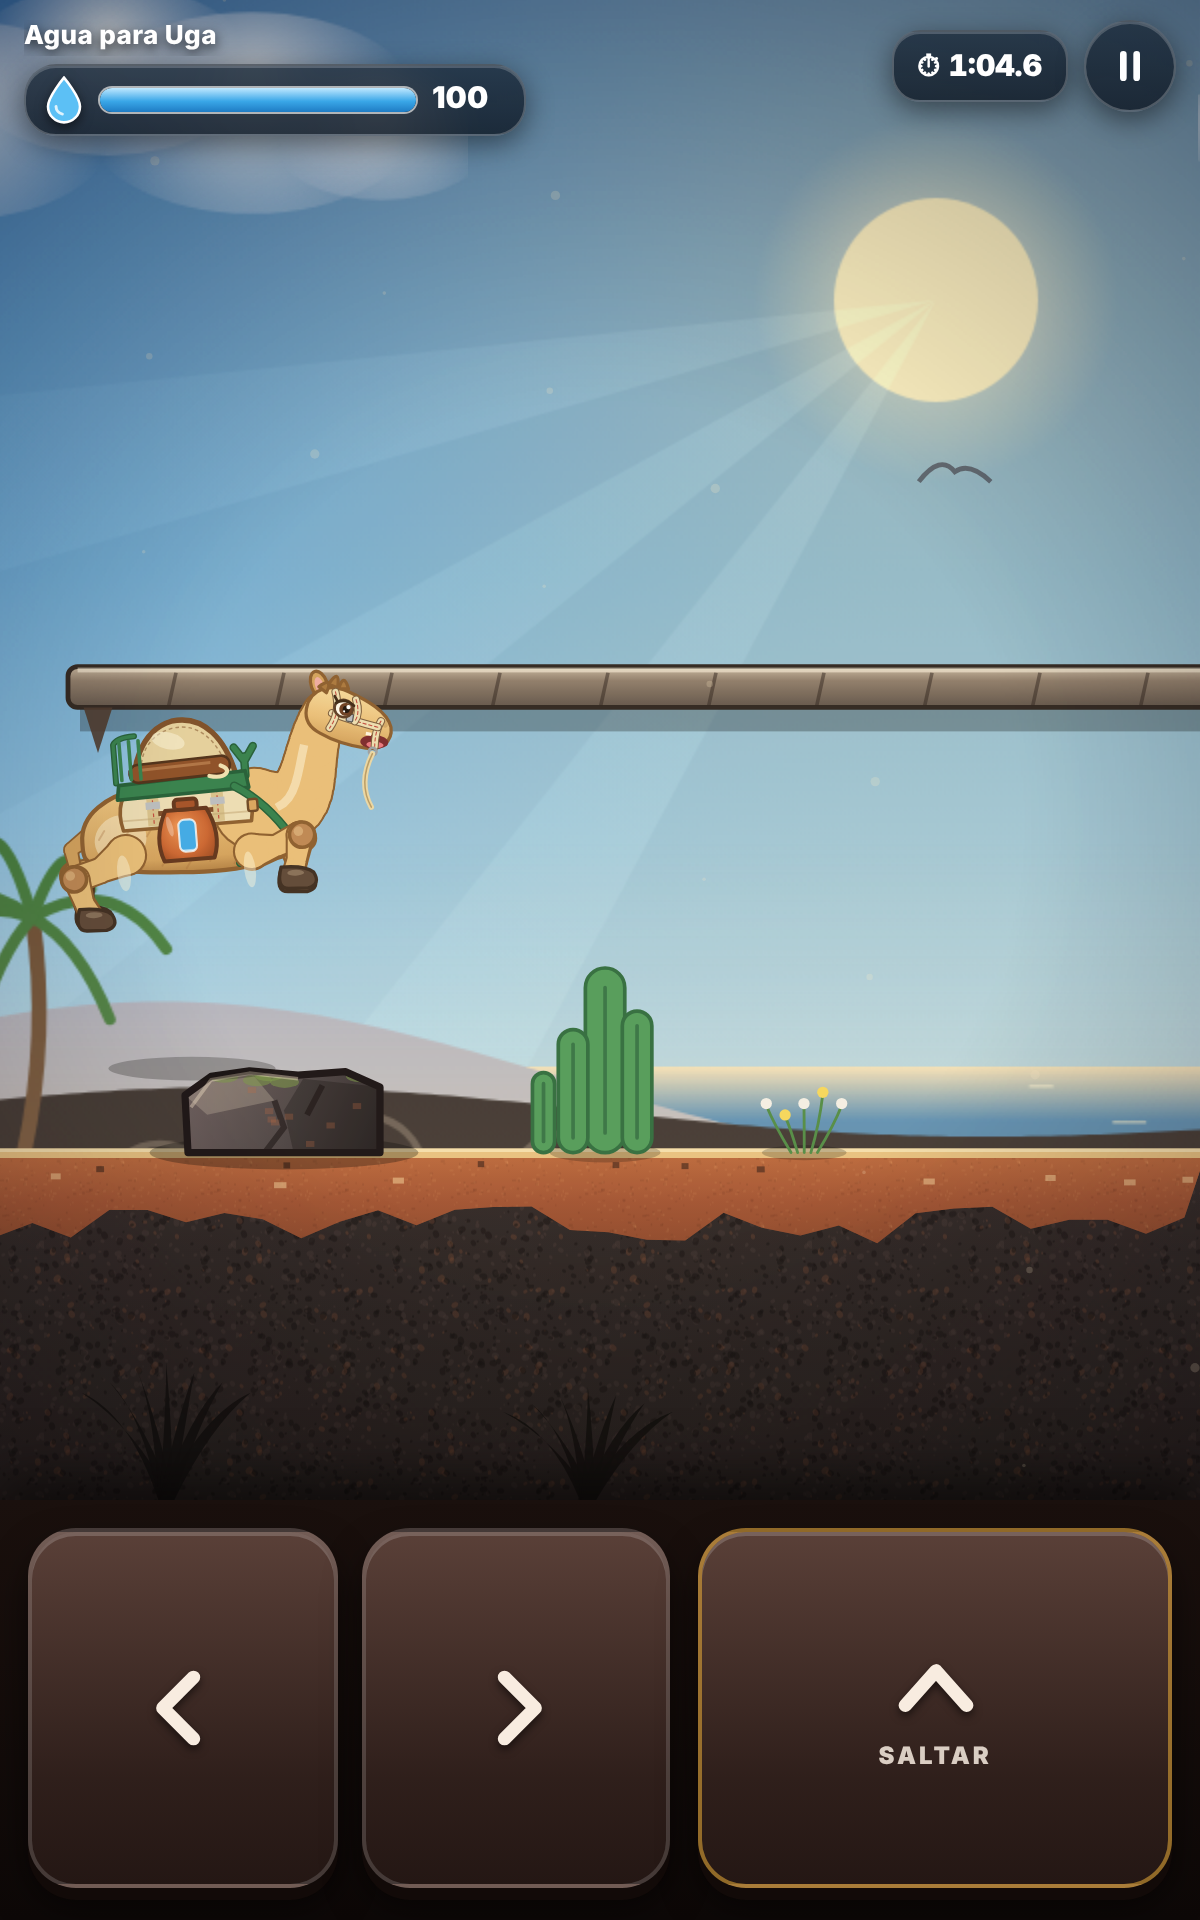
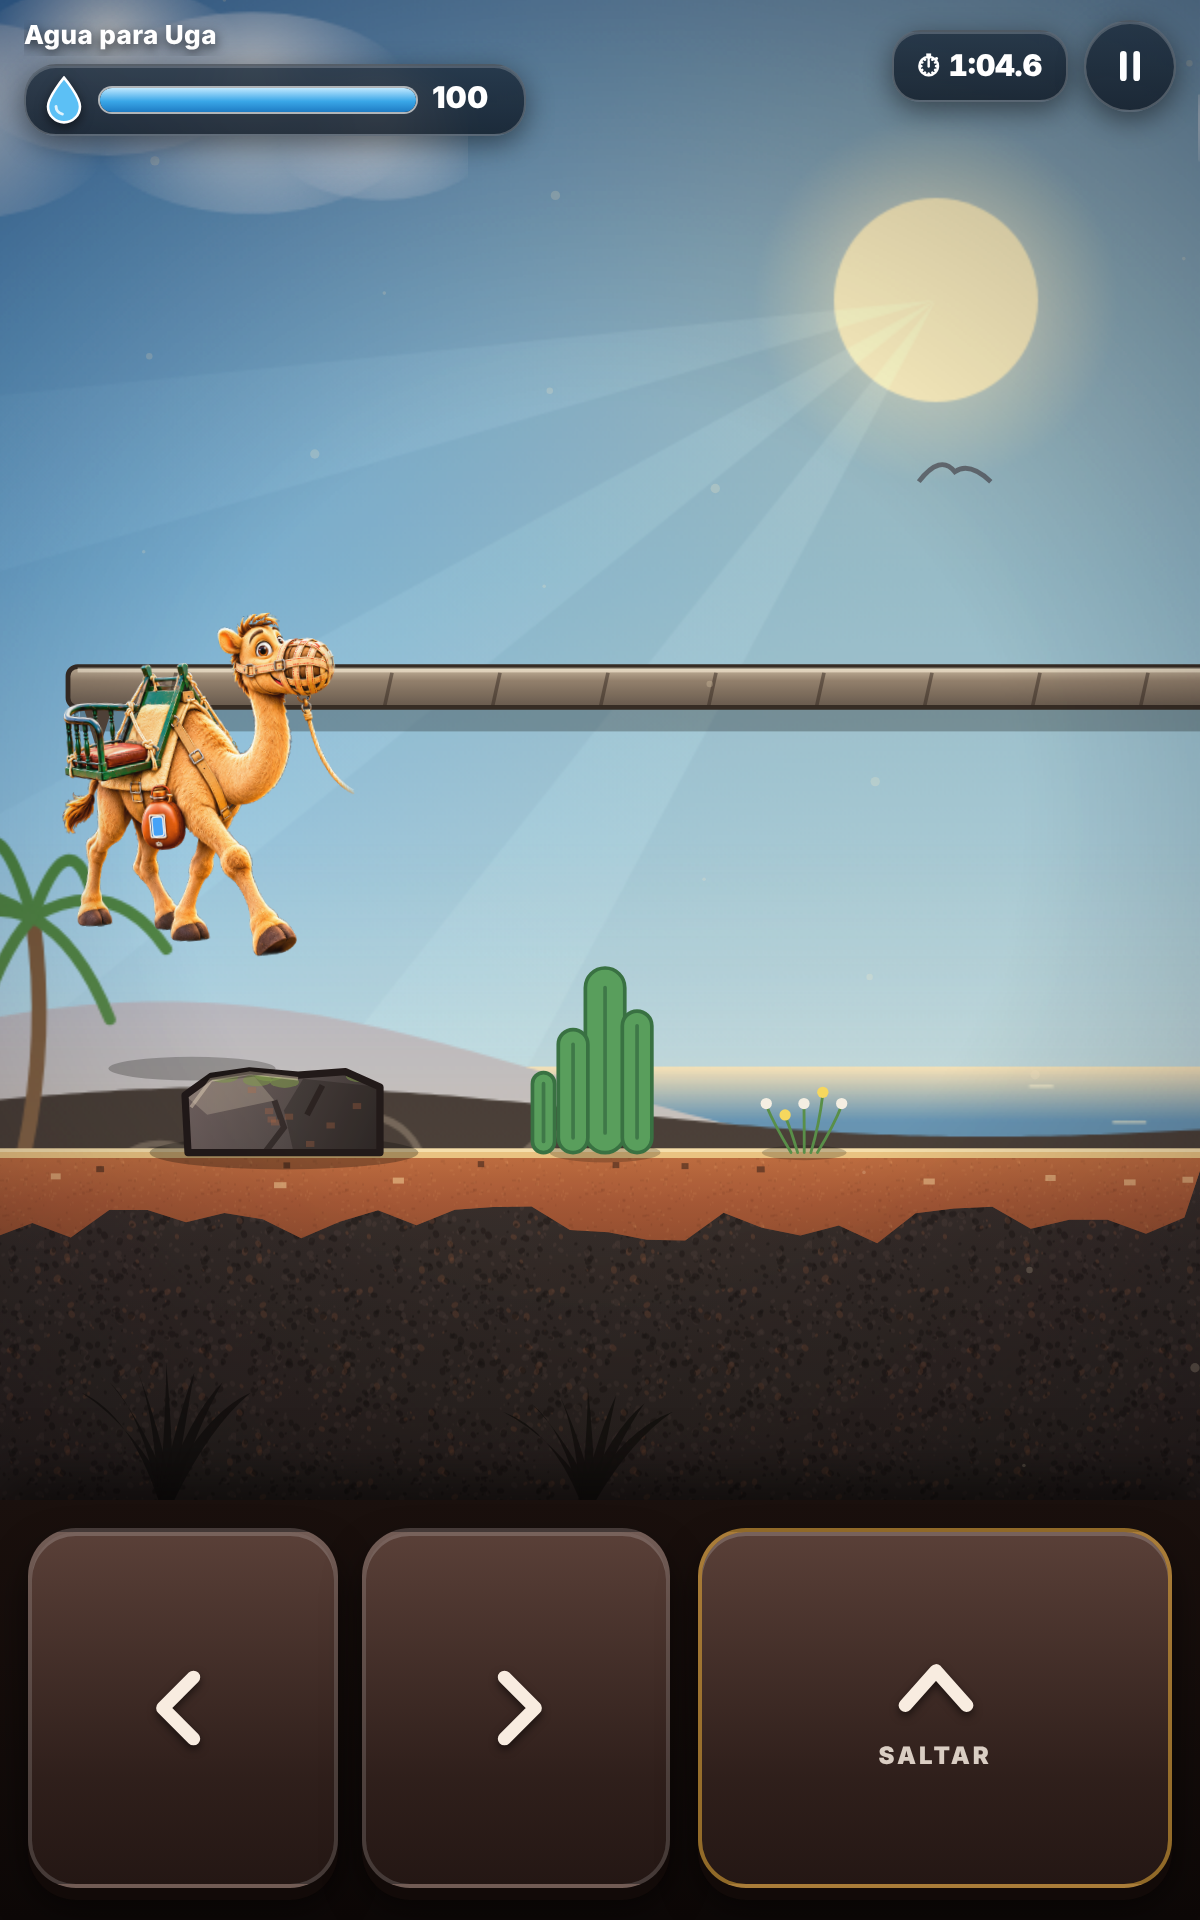
1.8.0: Martín dibujado a partir de la ilustración oficial (sprite con fondo transparente, animación de paso, salto y caída, nivel de agua en la cantimplora)
Claude-Session: https://claude.ai/code/session_01H2Jf8v1MHtV6zTpVoU4WWj

Changed region(s): [[0.0308, 0.3125, 0.3392, 0.5]]

diff --git a/docs/app/dibujo.js b/docs/app/dibujo.js
@@ -162,7 +162,46 @@
 
   }
 
+  /* Martín a partir de la ilustración (camello.png, 551×560, mirando a la derecha). Si aún no ha cargado, se usa el dibujo vectorial. */
+  const SPR = { img: null, ok: false, cache: {}, ax: 232, ay: 553, alto: 2.75, win: [184, 315, 19, 32] };
+  if (typeof Image !== 'undefined') { SPR.img = new Image(); SPR.img.onload = () => { SPR.ok = true; }; SPR.img.src = 'camello.png'; }
+  function sprEscalado(hp) {
+    const k = Math.max(16, Math.round(hp)); if (SPR.cache[k]) return SPR.cache[k];
+    const s = k / 560, c = document.createElement('canvas'); c.width = Math.ceil(551 * s); c.height = k;
+    const g = c.getContext('2d'); g.imageSmoothingQuality = 'high';
+    // reducción en pasos de ½ para que no se pierda el detalle
+    let src = SPR.img, w = 551, h = 560;
+    while (w * 0.5 > c.width) { const t2 = document.createElement('canvas'); t2.width = Math.ceil(w * 0.5); t2.height = Math.ceil(h * 0.5); const g2 = t2.getContext('2d'); g2.imageSmoothingQuality = 'high'; g2.drawImage(src, 0, 0, t2.width, t2.height); src = t2; w = t2.width; h = t2.height; }
+    g.drawImage(src, 0, 0, c.width, c.height);
+    const ks = Object.keys(SPR.cache); if (ks.length > 6) delete SPR.cache[ks[0]];
+    return (SPR.cache[k] = c);
+  }
+  function dibujaMartinSprite(ctx, u, px, py, st) {
+    const T = st.t || 0, ph = st.fase || 0, anim = st.anim, f = clamp(st.agua / 100, 0, 1);
+    const hp = SPR.alto * u, s = hp / 560, cv = sprEscalado(hp);
+    let dy = 0, rot = 0, sx = 1, sy = 1;
+    if (anim === 'corre') { dy = -Math.abs(Math.sin(ph)) * 0.07 * u; rot = Math.sin(ph) * 0.025; sx = 1 + Math.sin(ph * 2) * 0.012; sy = 1 / sx; }
+    else if (anim === 'idle') { sy = 1 + Math.sin(T * 2.2) * 0.012; }
+    else if (anim === 'salta') { rot = -0.09; sx = 0.97; sy = 1.04; }
+    else if (anim === 'cae') { rot = 0.07; sx = 1.02; sy = 0.98; }
+    else if (anim === 'gana') { dy = -Math.abs(Math.sin(T * 6)) * 0.35 * u; rot = Math.sin(T * 6) * 0.04; }
+    if (st.golpe > 0) { sy *= 1 - st.golpe * 0.12; sx *= 1 + st.golpe * 0.08; }
+    ctx.save(); ctx.globalAlpha = st.alpha == null ? 1 : st.alpha;
+    ctx.translate(px, py + dy); if (st.dir < 0) ctx.scale(-1, 1);
+    ctx.rotate(rot); ctx.scale(sx, sy);
+    ctx.drawImage(cv, -SPR.ax * s, -SPR.ay * s, cv.width, cv.height);
+    // nivel de agua en la ventana de la cantimplora
+    const [wx, wy, ww, wh] = SPR.win, X = (wx - SPR.ax) * s, Y = (wy - SPR.ay) * s, W = ww * s, H = wh * s, r = Math.min(W, H) * 0.25;
+    ctx.fillStyle = '#0d2233'; rr(ctx, X, Y, W, H, r); ctx.fill();
+    ctx.save(); rr(ctx, X, Y, W, H, r); ctx.clip(); const hh = H * f;
+    ctx.fillStyle = f < 0.3 ? '#ffd24a' : '#3aa0ff'; ctx.fillRect(X, Y + H - hh, W, hh); ctx.fillStyle = 'rgba(255,255,255,.55)'; ctx.fillRect(X, Y + H - hh, W, Math.max(1, H * 0.06)); ctx.restore();
+    ctx.strokeStyle = 'rgba(255,255,255,.85)'; ctx.lineWidth = Math.max(1, s * 2.5); rr(ctx, X, Y, W, H, r); ctx.stroke();
+    if (st.golpe > 0) { ctx.globalCompositeOperation = 'source-atop'; }
+    ctx.restore();
+  }
+
   function dibujaMartin(ctx, u, px, py, st) {
+    if (SPR.ok) return dibujaMartinSprite(ctx, u, px, py, st);
     // (px,py) = pies; u = px por unidad. st: {dir, fase, anim, agua, golpe, t, alpha}
     ctx.save(); ctx.translate(px, py); ctx.scale(st.dir < 0 ? -u : u, -u);
     ctx.globalAlpha = st.alpha == null ? 1 : st.alpha;

diff --git a/www/dibujo.js b/www/dibujo.js
@@ -162,7 +162,46 @@
 
   }
 
+  /* Martín a partir de la ilustración (camello.png, 551×560, mirando a la derecha). Si aún no ha cargado, se usa el dibujo vectorial. */
+  const SPR = { img: null, ok: false, cache: {}, ax: 232, ay: 553, alto: 2.75, win: [184, 315, 19, 32] };
+  if (typeof Image !== 'undefined') { SPR.img = new Image(); SPR.img.onload = () => { SPR.ok = true; }; SPR.img.src = 'camello.png'; }
+  function sprEscalado(hp) {
+    const k = Math.max(16, Math.round(hp)); if (SPR.cache[k]) return SPR.cache[k];
+    const s = k / 560, c = document.createElement('canvas'); c.width = Math.ceil(551 * s); c.height = k;
+    const g = c.getContext('2d'); g.imageSmoothingQuality = 'high';
+    // reducción en pasos de ½ para que no se pierda el detalle
+    let src = SPR.img, w = 551, h = 560;
+    while (w * 0.5 > c.width) { const t2 = document.createElement('canvas'); t2.width = Math.ceil(w * 0.5); t2.height = Math.ceil(h * 0.5); const g2 = t2.getContext('2d'); g2.imageSmoothingQuality = 'high'; g2.drawImage(src, 0, 0, t2.width, t2.height); src = t2; w = t2.width; h = t2.height; }
+    g.drawImage(src, 0, 0, c.width, c.height);
+    const ks = Object.keys(SPR.cache); if (ks.length > 6) delete SPR.cache[ks[0]];
+    return (SPR.cache[k] = c);
+  }
+  function dibujaMartinSprite(ctx, u, px, py, st) {
+    const T = st.t || 0, ph = st.fase || 0, anim = st.anim, f = clamp(st.agua / 100, 0, 1);
+    const hp = SPR.alto * u, s = hp / 560, cv = sprEscalado(hp);
+    let dy = 0, rot = 0, sx = 1, sy = 1;
+    if (anim === 'corre') { dy = -Math.abs(Math.sin(ph)) * 0.07 * u; rot = Math.sin(ph) * 0.025; sx = 1 + Math.sin(ph * 2) * 0.012; sy = 1 / sx; }
+    else if (anim === 'idle') { sy = 1 + Math.sin(T * 2.2) * 0.012; }
+    else if (anim === 'salta') { rot = -0.09; sx = 0.97; sy = 1.04; }
+    else if (anim === 'cae') { rot = 0.07; sx = 1.02; sy = 0.98; }
+    else if (anim === 'gana') { dy = -Math.abs(Math.sin(T * 6)) * 0.35 * u; rot = Math.sin(T * 6) * 0.04; }
+    if (st.golpe > 0) { sy *= 1 - st.golpe * 0.12; sx *= 1 + st.golpe * 0.08; }
+    ctx.save(); ctx.globalAlpha = st.alpha == null ? 1 : st.alpha;
+    ctx.translate(px, py + dy); if (st.dir < 0) ctx.scale(-1, 1);
+    ctx.rotate(rot); ctx.scale(sx, sy);
+    ctx.drawImage(cv, -SPR.ax * s, -SPR.ay * s, cv.width, cv.height);
+    // nivel de agua en la ventana de la cantimplora
+    const [wx, wy, ww, wh] = SPR.win, X = (wx - SPR.ax) * s, Y = (wy - SPR.ay) * s, W = ww * s, H = wh * s, r = Math.min(W, H) * 0.25;
+    ctx.fillStyle = '#0d2233'; rr(ctx, X, Y, W, H, r); ctx.fill();
+    ctx.save(); rr(ctx, X, Y, W, H, r); ctx.clip(); const hh = H * f;
+    ctx.fillStyle = f < 0.3 ? '#ffd24a' : '#3aa0ff'; ctx.fillRect(X, Y + H - hh, W, hh); ctx.fillStyle = 'rgba(255,255,255,.55)'; ctx.fillRect(X, Y + H - hh, W, Math.max(1, H * 0.06)); ctx.restore();
+    ctx.strokeStyle = 'rgba(255,255,255,.85)'; ctx.lineWidth = Math.max(1, s * 2.5); rr(ctx, X, Y, W, H, r); ctx.stroke();
+    if (st.golpe > 0) { ctx.globalCompositeOperation = 'source-atop'; }
+    ctx.restore();
+  }
+
   function dibujaMartin(ctx, u, px, py, st) {
+    if (SPR.ok) return dibujaMartinSprite(ctx, u, px, py, st);
     // (px,py) = pies; u = px por unidad. st: {dir, fase, anim, agua, golpe, t, alpha}
     ctx.save(); ctx.translate(px, py); ctx.scale(st.dir < 0 ? -u : u, -u);
     ctx.globalAlpha = st.alpha == null ? 1 : st.alpha;

diff --git a/docs/app/sw.js b/docs/app/sw.js
@@ -1,8 +1,8 @@
 // Service worker: deja la versión web disponible sin conexión.
 // En la app Android no hace falta (los archivos ya van dentro del APK) y podría servir
 // una versión antigua tras actualizar, así que allí se da de baja solo.
-const CACHE = 'martin-v1.7.3';
-const ASSETS = ['./', 'index.html', 'martin.js', 'niveles.js', 'juego.js', 'dibujo.js', 'manifest.webmanifest', 'icons/icon-192.png', 'icons/icon-512.png', 'icons/icon-maskable-512.png', 'icons/apple-touch-icon.png', 'i18n-en.js', 'i18n-fr.js', 'i18n-de.js', 'i18n-it.js', 'idioma.js', 'masjuegos.js', 'audio-suave.js', 'turno.js', 'contador.js', 'invitacion.js', 'publicas.js', 'juegos/ajedrez.png', 'juegos/chinchon.png', 'juegos/pumba.png', 'juegos/damas.png', 'juegos/parchis.png', 'juegos/poker.png', 'juegos/uno.png', 'juegos/martin.png'];
+const CACHE = 'martin-v1.8.0';
+const ASSETS = ['./', 'index.html', 'martin.js', 'niveles.js', 'juego.js', 'dibujo.js', 'camello.png', 'manifest.webmanifest', 'icons/icon-192.png', 'icons/icon-512.png', 'icons/icon-maskable-512.png', 'icons/apple-touch-icon.png', 'i18n-en.js', 'i18n-fr.js', 'i18n-de.js', 'i18n-it.js', 'idioma.js', 'masjuegos.js', 'audio-suave.js', 'turno.js', 'contador.js', 'invitacion.js', 'publicas.js', 'juegos/ajedrez.png', 'juegos/chinchon.png', 'juegos/pumba.png', 'juegos/damas.png', 'juegos/parchis.png', 'juegos/poker.png', 'juegos/uno.png', 'juegos/martin.png'];
 const NATIVE = self.location.hostname === 'localhost' && self.location.protocol === 'https:';
 
 self.addEventListener('install', e => {

diff --git a/www/sw.js b/www/sw.js
@@ -1,8 +1,8 @@
 // Service worker: deja la versión web disponible sin conexión.
 // En la app Android no hace falta (los archivos ya van dentro del APK) y podría servir
 // una versión antigua tras actualizar, así que allí se da de baja solo.
-const CACHE = 'martin-v1.7.3';
-const ASSETS = ['./', 'index.html', 'martin.js', 'niveles.js', 'juego.js', 'dibujo.js', 'manifest.webmanifest', 'icons/icon-192.png', 'icons/icon-512.png', 'icons/icon-maskable-512.png', 'icons/apple-touch-icon.png', 'i18n-en.js', 'i18n-fr.js', 'i18n-de.js', 'i18n-it.js', 'idioma.js', 'masjuegos.js', 'audio-suave.js', 'turno.js', 'contador.js', 'invitacion.js', 'publicas.js', 'juegos/ajedrez.png', 'juegos/chinchon.png', 'juegos/pumba.png', 'juegos/damas.png', 'juegos/parchis.png', 'juegos/poker.png', 'juegos/uno.png', 'juegos/martin.png'];
+const CACHE = 'martin-v1.8.0';
+const ASSETS = ['./', 'index.html', 'martin.js', 'niveles.js', 'juego.js', 'dibujo.js', 'camello.png', 'manifest.webmanifest', 'icons/icon-192.png', 'icons/icon-512.png', 'icons/icon-maskable-512.png', 'icons/apple-touch-icon.png', 'i18n-en.js', 'i18n-fr.js', 'i18n-de.js', 'i18n-it.js', 'idioma.js', 'masjuegos.js', 'audio-suave.js', 'turno.js', 'contador.js', 'invitacion.js', 'publicas.js', 'juegos/ajedrez.png', 'juegos/chinchon.png', 'juegos/pumba.png', 'juegos/damas.png', 'juegos/parchis.png', 'juegos/poker.png', 'juegos/uno.png', 'juegos/martin.png'];
 const NATIVE = self.location.hostname === 'localhost' && self.location.protocol === 'https:';
 
 self.addEventListener('install', e => {

diff --git a/docs/app/index.html b/docs/app/index.html
@@ -406,7 +406,7 @@ function openThemes() {
   AvisoTurno.enlazar();
 }
 
-const APP_VERSION = '1.7.3';
+const APP_VERSION = '1.8.0';
 const REPO = 'csuarezsm/Martin';
 const MAX_ARCHIVE = 500;
 const uid = () => Math.random().toString(36).slice(2, 10);

diff --git a/www/index.html b/www/index.html
@@ -406,7 +406,7 @@ function openThemes() {
   AvisoTurno.enlazar();
 }
 
-const APP_VERSION = '1.7.3';
+const APP_VERSION = '1.8.0';
 const REPO = 'csuarezsm/Martin';
 const MAX_ARCHIVE = 500;
 const uid = () => Math.random().toString(36).slice(2, 10);

diff --git a/README.md b/README.md
@@ -2,7 +2,7 @@
 
 Un camello canario joven de Uga lleva el agua por los caminos que dejó la tormenta: lava, rocas, huecos y bajadas. **6 niveles de plataformas** con tres estrellas cada uno, a veces con dos caminos (uno rápido y arriesgado, otro lento y seguro), y un **reto diario** igual para todos con ranking.
 Para Android e iPhone. Gratis, sin anuncios y sin cuentas. App Capacitor + web (`www/`). Todo se guarda en el móvil; solo el reto diario usa el servidor de juegos (nombre y pulsaciones, para comprobar el tiempo).
-Paquete: `com.itcanarias.martin` · versión 1.7.3
+Paquete: `com.itcanarias.martin` · versión 1.8.0
 
 **iPhone y navegadores**: la misma app se publica como versión web instalable en https://csuarezsm.github.io/Martin/app/ (GitHub Pages, carpeta `docs/app`, copia de `www/`). En Safari: Compartir → «Añadir a pantalla de inicio». Tras cambiar `www/`, ejecuta `npm run web`.
 
